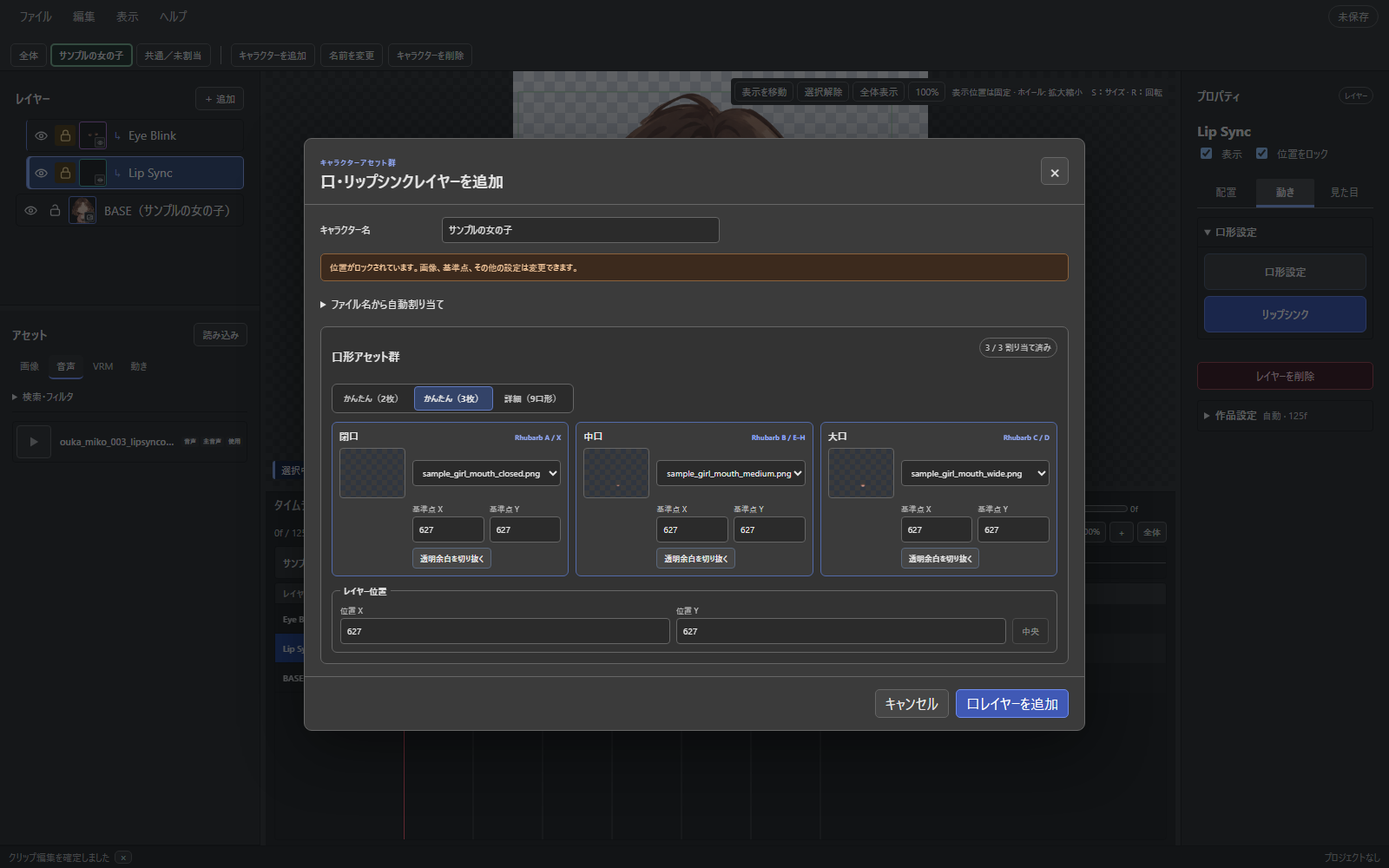
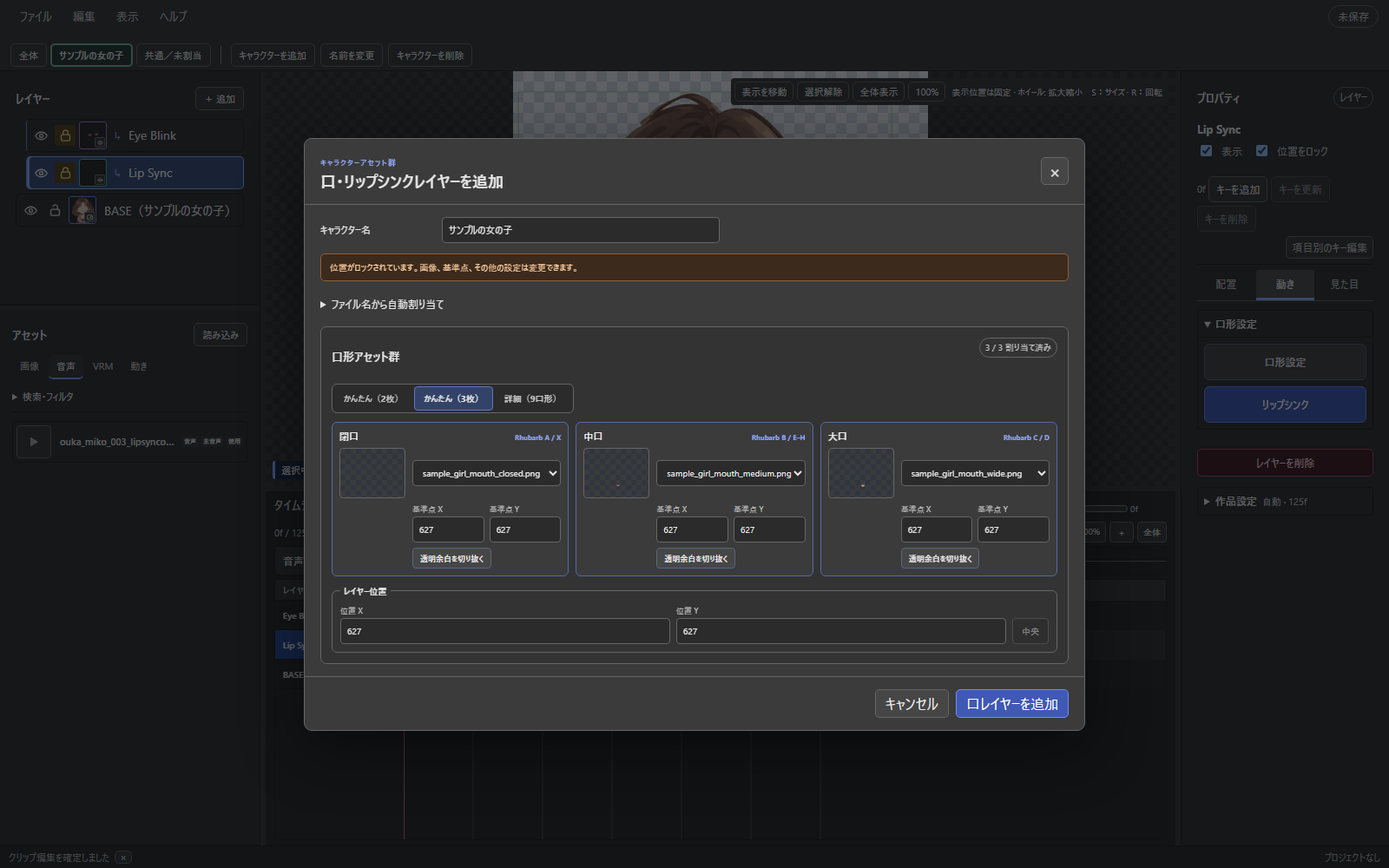
docs: publish LipSyncOne 0.4.0

diff --git a/site/help/index.html b/site/help/index.html
@@ -86,8 +86,8 @@
           <p class="breadcrumb">LipSyncOne / ヘルプ</p>
           <h1>LipSyncOne ヘルプ</h1>
           <p>画像やVRMモデルと音声から、口パク・目パチ・動きの付いた透明動画を作る操作を紹介します。</p>
-          <p class="version-note">Windows 11 x64 ／ 開発版0.4.0の使い方 ／ 2026年10月19日更新</p>
-          <nav class="start-paths" aria-label="作りたいものから始める"><a class="start-card" href="#sample-three"><span class="start-card-label">いちばん簡単</span><strong>全身画像2枚で口パク</strong><span>口だけが違う2枚と音声から作る</span></a><a class="start-card" href="#parts-start"><span class="start-card-label">口も目も動かす</span><strong>本体・口・目のパーツ画像</strong><span>差分画像を組み合わせて作る</span></a><a class="start-card" href="#vrm"><span class="start-card-label">開発版0.4.0</span><strong>VRMモデルで作る</strong><span>3Dモデルに口パクや動きを付ける</span></a></nav>
+          <p class="version-note">Windows 11 x64 ／ 0.4.0の使い方 ／ 2026年10月19日更新</p>
+          <nav class="start-paths" aria-label="作りたいものから始める"><a class="start-card" href="#sample-three"><span class="start-card-label">いちばん簡単</span><strong>全身画像2枚で口パク</strong><span>口だけが違う2枚と音声から作る</span></a><a class="start-card" href="#parts-start"><span class="start-card-label">口も目も動かす</span><strong>本体・口・目のパーツ画像</strong><span>差分画像を組み合わせて作る</span></a><a class="start-card" href="#vrm"><span class="start-card-label">VRM対応</span><strong>VRMモデルで作る</strong><span>3Dモデルに口パクや動きを付ける</span></a></nav>
         </div>
       </section>
 
@@ -128,7 +128,7 @@
             <header class="section-heading"><p class="section-number">START</p><h2>まずはサンプルで動画を作る</h2></header>
 
 <p>画像と音声を用意すれば、口パクを自動で付けられます。まずは、準備の少ない「全身画像2枚」で試してみましょう。</p>
-<p class="note"><strong>このページは開発版0.4.0の操作案内です。</strong>現在の公開版は0.3.9です。VRM・モーション・キー編集など、0.4.0で追加する機能は公開版には含まれません。画像の口パク・目パチは公開版でも制作できます。</p>
+<p class="note"><strong>LipSyncOne 0.4.0の操作案内です。</strong>画像の口パク・目パチに加え、VRM・モーション・キーフレームを使った制作を紹介します。</p>
 <div class="guide-step" id="sample-three"><h3>1. サンプル3をダウンロードする</h3><p><a class="secondary-button" href="https://lipsyncone.studiojuh.com/downloads/LipSyncOne_SampleAssets3_v1.zip" download>サンプル3：全身画像2枚をダウンロード</a></p><p>ZIPを展開します。imagesフォルダーに閉口・開口のPNG、audioフォルダーにWAVが入っています。自分の画像で試す場合も、同じ位置・大きさで口だけが違う2枚を用意してください。</p></div>
 <div class="guide-step"><h3>2. 新しいプロジェクトを作る</h3><p>HOMEの「新規プロジェクト」を選びます。</p><figure class="guide-shot"><a class="image-zoom-trigger" href="assets/home-light.png" aria-label="新規プロジェクトとプロジェクトを開くボタンがあるHOME画面を拡大表示"><img src="assets/home-light.png" data-theme-light="assets/home-light.png" data-theme-dark="assets/home-dark.png" alt="新規プロジェクトとプロジェクトを開くボタンがあるHOME画面" loading="lazy" width="1600" height="1000"></a><figcaption>「新規プロジェクト」で制作を始めます。保存済みの作品は「プロジェクトを開く」から再開できます。</figcaption></figure></div>
 <div class="guide-step"><h3>3. 2枚の画像でキャラクターを追加する</h3><p>「キャラクターを追加」を開き、「全身画像2枚で口パク」を選びます。「画像を追加」から2枚を読み込み、閉じた口と開いた口をそれぞれ指定して「2枚でキャラクターを追加」を押します。</p><figure class="guide-shot"><a class="image-zoom-trigger" href="assets/two-image-character-light.png" aria-label="閉口と開口の全身画像2枚を指定したキャラクター追加画面を拡大表示"><img src="assets/two-image-character-light.png" data-theme-light="assets/two-image-character-light.png" data-theme-dark="assets/two-image-character-dark.png" alt="閉口と開口の全身画像2枚を指定したキャラクター追加画面" loading="lazy" width="1600" height="1000"></a><figcaption>2枚の画像全体を見比べ、口以外の位置が揃っていることを確認します。切り抜きや口の位置合わせは不要です。</figcaption></figure></div>
@@ -203,7 +203,7 @@
           <section class="guide-section searchable" id="vrm" data-search="VRM VRMA モーション アニメーション 読み込み 繰り返す 3D モデル 取込 ポーズ コマ送り なめらか 表情 口パク リップシンク 目パチ 揺れ物 呼吸 髪 服 回転 カメラ リグ コントローラー 全身 腰 左右 FK IK G R S XYZ 平行投影 透視投影 テンキー5 光源 光の強さ 明るさ GLSL シェーダー">
             <header class="section-heading"><p class="section-number">3D</p><h2>VRMモデルを使う</h2></header>
 
-<p class="version-badge">開発版0.4.0の機能です。公開版0.3.9には含まれません。</p>
+<p class="version-badge">0.4.0から利用できます。</p>
 <p>VRMモデルにも、音声に合わせた口パクと自動の目パチを付けられます。画像のキャラクターや背景と、同じ作品に置くこともできます。</p>
 <ol class="procedure compact-procedure"><li><strong>モデルを追加する</strong><span>「キャラクターを追加」で「VRMモデル」を選びます。「VRMを追加」で.vrmファイルを読み込み、「モデルを選択」で選んで「キャラクターを追加」を押します。追加後にプレビューへ表示します。VRM 0.x / 1.0に対応します。</span></li><li><strong>音声を配置する</strong><span>そのキャラクターの音声行へ音声を置きます。口パクの解析が始まります。</span></li><li><strong>動きを確認する</strong><span>再生ボタンで確認します。口パク・目パチ・呼吸などは「動き」タブから調整できます。</span></li></ol>
 <h3>ポーズを変える</h3><p>モデルを選び、「動き → 3Dの配置・基本ポーズ」でポーズプリセットを選んで「ポーズを適用」を押します。プレビューの「向き・ポーズ（3D）」では、関節の輪を選んで直接調整できます。</p>
@@ -266,9 +266,10 @@ void main() {
             <header class="section-heading"><p class="section-number">07</p><h2>配置と表示する時間を調整する</h2></header>
 
 <h3>素材を使う時間を変える</h3><p>タイムラインの帯をドラッグすると開始位置、左右の端をドラッグすると長さを変えられます。同じ行の同じ時間へは、2つ以上の素材を置けません。別の行や空いている時間へ配置してください。</p>
+<p>音声は1行のまとめ表示から始まります。配置や削除をするときは「個別」を押して音声行を開き、「まとめる」で戻せます。まとめ表示でも波形をドラッグして再生位置を動かせます。表示の切り替えで音声の配置や再生内容は変わりません。</p>
 <figure class="guide-shot"><a class="image-zoom-trigger" href="assets/timeline-light.png" aria-label="音声・画像・口形の表示区間を確認するタイムラインを拡大表示"><img src="assets/timeline-light.png" data-theme-light="assets/timeline-light.png" data-theme-dark="assets/timeline-dark.png" alt="音声・画像・口形の表示区間を確認するタイムライン" loading="lazy" width="1048" height="408"></a><figcaption>音声の行と素材の行は別です。口パクの帯は解析結果、画像やモーションの帯は配置した素材を表します。</figcaption></figure>
 <h3>位置・大きさ・回転を変える</h3><p>画像やレイヤーを選び、「配置 → 画面上の配置」を開きます。数値を変えると、少し待ってプレビューへ反映します。Enterですぐ確定、Escで未確定の入力を戻せます。</p>
-<figure class="guide-shot"><a class="image-zoom-trigger" href="assets/properties-position-light.png" aria-label="配置タブで位置・入力倍率・回転を調整するプロパティを拡大表示"><img src="assets/properties-position-light.png" data-theme-light="assets/properties-position-light.png" data-theme-dark="assets/properties-position-dark.png" alt="配置タブで位置・入力倍率・回転を調整するプロパティ" loading="lazy" width="360" height="534"></a><figcaption>位置は1px、入力倍率は1％、回転は1度刻みです。数値欄を選んでいる間だけ、ホイールで1ずつ変更できます。</figcaption></figure>
+<figure class="guide-shot"><a class="image-zoom-trigger" href="assets/properties-position-light.png" aria-label="配置タブで位置・入力倍率・回転を調整するプロパティを拡大表示"><img src="assets/properties-position-light.png" data-theme-light="assets/properties-position-light.png" data-theme-dark="assets/properties-position-dark.png" alt="配置タブで位置・入力倍率・回転を調整するプロパティ" loading="lazy" width="360" height="586"></a><figcaption>位置は1px、入力倍率は1％、回転は1度刻みです。数値欄を選んでいる間だけ、ホイールで1ずつ変更できます。</figcaption></figure>
 <table class="help-table"><thead><tr><th>したいこと</th><th>操作</th></tr></thead><tbody><tr><th>画像を移動する</th><td>プレビューの画像を選んでドラッグします。</td></tr><tr><th>画像を拡大・縮小する</th><td>画像を選び、プレビュー上でSを押してマウスを動かします。</td></tr><tr><th>画像を回転する</th><td>画像を選び、プレビュー上でRを押してマウスを動かします。</td></tr><tr><th>変形を確定・取り消す</th><td>クリックかEnterで確定。右クリックかEscで取り消します。</td></tr><tr><th>左右反転する</th><td>プロパティの「左右反転」を押します。</td></tr><tr><th>表示・非表示を切り替える</th><td>レイヤーの目アイコンを押します。</td></tr><tr><th>重なり順を変える</th><td>レイヤー一覧の行を上下へドラッグします。</td></tr></tbody></table>
 <p>BASEはキャラクター本体です。口と目はBASEの位置に追従します。口・目の位置を動かすときは、鍵アイコンで位置ロックを解除してください。背景は通常のレイヤーに置き、キャラクターより下へ移動します。</p>
 <h3>タイムラインの長さを変える</h3><p>初期設定は「自動」です。最後の画像・音声・モーションなどの終わりに合わせて、タイムラインが伸び縮みします。末尾に余白を作りたいときは、プロパティ下部の「作品設定 → タイムラインの長さ」で「手動」を選びます。24 FPSなら240フレームで10秒です。</p><p>配置済みの素材より短い長さは指定できません。「自動」に戻すと、素材の終端へ揃います。</p>
@@ -280,19 +281,19 @@ void main() {
           <section class="guide-section searchable" id="keyframes" data-search="キーフレーム キー ◆ ◇ I Alt 自動キー 未記録 プレビュー 保存 ポーズ 基準 現在のコマ 動かす">
             <header class="section-heading"><p class="section-number">KEY</p><h2>キーフレームと自動キー</h2></header>
 
-<p class="version-badge">開発版0.4.0の機能です。公開版0.3.9には含まれません。</p><p>キーフレームは、「このコマでは、この位置やポーズにする」という記録です。0コマ目と24コマ目に違う位置を記録すると、その間をつないで動かせます。</p>
-<ol class="procedure compact-procedure"><li><strong>コマを選ぶ</strong><span>動かすレイヤーを選び、タイムラインを「キー」に切り替えます。記録したいコマへ再生位置を動かします。</span></li><li><strong>値を変える</strong><span>プロパティかプレビューで、位置・大きさ・回転などを調整します。</span></li><li><strong>◇で記録する</strong><span>値の横の◇を押すと、現在のコマに記録します。記録済みのコマでは◆になります。</span></li></ol>
-<figure class="guide-shot"><a class="image-zoom-trigger" href="assets/keyframes-light.png" aria-label="キー表示のタイムラインと値の横の記録ボタンを拡大表示"><img src="assets/keyframes-light.png" data-theme-light="assets/keyframes-light.png" data-theme-dark="assets/keyframes-dark.png" alt="キー表示のタイムラインと値の横の記録ボタン" loading="lazy" width="1600" height="1000"></a><figcaption>別のコマでも値を変えて記録し、再生して動きを確認します。最初のキーを途中に作るときは、0コマ目の基準値も記録します。</figcaption></figure>
-<h3>自動キーで、調整と同時に記録する</h3><p>タイムラインの「自動キー」をオンにすると、変更した項目だけを現在のコマへ記録します。初期状態はオフです。同じコマにあるキーを変更すると、そのキーを更新します。</p>
+<p class="version-badge">0.4.0から利用できます。</p><p>キーフレームは、「このコマでは、この位置やポーズにする」という記録です。0コマ目と24コマ目に違う位置を記録すると、その間をつないで動かせます。</p>
+<ol class="procedure compact-procedure"><li><strong>コマを選ぶ</strong><span>動かすレイヤーを選び、タイムラインを「キー」に切り替えます。記録したいコマへ再生位置を動かします。</span></li><li><strong>値を変える</strong><span>プロパティかプレビューで、位置・大きさ・回転・不透明度を調整します。</span></li><li><strong>キーを追加する</strong><span>「キーを追加」を押すと、そのコマの配置をまとめて記録します。記録済みのコマは「キーを更新」で上書き、「キーを削除」でまとめて削除できます。</span></li></ol>
+<figure class="guide-shot"><a class="image-zoom-trigger" href="assets/keyframes-light.png" aria-label="配置を一括で記録するボタンとキーのタイムラインを拡大表示"><img src="assets/keyframes-light.png" data-theme-light="assets/keyframes-light.png" data-theme-dark="assets/keyframes-dark.png" alt="配置を一括で記録するボタンとキーのタイムライン" loading="lazy" width="1600" height="1000"></a><figcaption>位置・回転・大きさ・不透明度を1つの◆にまとめて編集します。別のコマでも値を変えて記録し、再生して動きを確認します。最初のキーを途中に作るときは、0コマ目の基準値も記録します。</figcaption></figure>
+<h3>自動キーで、調整と同時に記録する</h3><p>タイムラインの「自動キー」をオンにすると、配置の変更を現在のコマへまとめて記録します。初期状態はオフです。同じコマにあるキーを変更すると、そのキーを更新します。VRMの関節・表情などは変更した項目を記録します。</p>
 <h3>未記録プレビューのままにしない</h3><p>キーがある項目を、自動キーがオフのまま変更すると、まず未記録の状態で見た目を試せます。「未記録」が出たら、Iキーや記録ボタンでキーにしてください。別のコマへ移動するか、Escで取り消すと変更は消えます。</p><p class="warning"><strong>未記録の変更は保存・動画出力に含まれません。</strong>試した位置やポーズを残すときは、先にキーへ記録してください。</p>
-<details class="inline-details"><summary>記録できる項目とショートカット</summary><p>画像の位置・倍率・回転・不透明度、VRMの配置・基本ポーズ・表情・カメラなどを記録できます。位置は「配置」、ポーズは「動き」、表情や不透明度は「見た目」で調整します。</p><p>Iで記録、Alt＋Iで現在のキーを削除できます。数値の編集中はEnterでも記録できます。削除や記録は、元に戻す・やり直すに対応します。</p></details>
+<details class="inline-details"><summary>項目ごとに細かく編集する・ショートカット</summary><p>プロパティの「項目別のキー編集」を開くと、位置・倍率・回転・不透明度の個別キーや、VRMの基本ポーズ・表情・カメラなどを編集できます。位置は「配置」、ポーズは「動き」、表情や不透明度は「見た目」で調整します。</p><p>キーのタイムラインではIで配置をまとめて記録、Alt＋Iで現在の配置キーを削除できます。「キー」表示中の数値入力はEnterでも記録できます。詳細編集では項目ごとの操作になります。削除や記録は、元に戻す・やり直すに対応します。</p></details>
           </section>
 
           <section class="guide-section searchable" id="curves" data-search="ベジェ Bezier グラフ カーブ ハンドル 補間 キー 時間 伸縮 時間伸縮 S スケール 支点 衝突 なめらか">
             <header class="section-heading"><p class="section-number">CURVE</p><h2>動きの速さとキーの間隔を整える</h2></header>
 
-<p class="version-badge">開発版0.4.0の機能です。公開版0.3.9には含まれません。</p>
-<h3>動き出しや止まり方を変える</h3><p>キー編集で「グラフ」を開きます。補間を「ベジェ」にすると、ハンドルを動かして、ゆっくり動き出す・ゆっくり止まるといった変化を作れます。</p>
+<p class="version-badge">0.4.0から利用できます。</p>
+<h3>動き出しや止まり方を変える</h3><p>キーのタイムラインで「キーの詳細」を開き、項目を選んで「グラフ」を押します。補間を「ベジェ」にすると、ハンドルを動かして、ゆっくり動き出す・ゆっくり止まるといった変化を作れます。</p>
 <figure class="guide-shot"><a class="image-zoom-trigger" href="assets/graph-light.png" aria-label="キーフレームの値とベジェのハンドルを編集するグラフ画面を拡大表示"><img src="assets/graph-light.png" data-theme-light="assets/graph-light.png" data-theme-dark="assets/graph-dark.png" alt="キーフレームの値とベジェのハンドルを編集するグラフ画面" loading="lazy" width="1600" height="1000"></a><figcaption>横軸は時間、縦軸は値です。キーとハンドルをドラッグするか、数値で調整します。</figcaption></figure>
 <table class="help-table"><thead><tr><th>補間</th><th>動き方</th></tr></thead><tbody><tr><th>一定</th><td>次のキーまで同じ値を保ち、切り替えます。</td></tr><tr><th>直線</th><td>一定の速さで変わります。</td></tr><tr><th>ベジェ</th><td>ハンドルで動き出しや止まり方を調整します。</td></tr></tbody></table>
 <h3>動きを全体的に長く・短くする</h3><p>キーを複数選んでSを押すと、キーの間隔を伸縮できます。支点は再生位置・選択の先頭・末尾から選びます。Enterで確定、Escで取り消します。時刻は整数フレームへ揃います。</p>
@@ -310,7 +311,7 @@ void main() {
    ├─ 本体.png
    ├─ 口_閉じ.png
    └─ 音声.wav</pre><p>この構成なら「素材/本体.png」のように記録します。中の配置を変えずに「作品フォルダー」全体を移動すれば、移動後も素材を参照できます。</p><p>.ls1だけを別のサブフォルダーへ入れ、素材をその外に置くと絶対パスになります。相対パスでまとめたい場合は、素材をすべて.ls1と同じフォルダーか、その下へ入れてください。</p><p>読み込み済みの素材を後から移動した場合は、アセットのプロパティで移動先へ差し替え、保存し直します。「名前を付けて保存」では、同じ素材を参照するようにパスを調整します。</p></details>
-<details class="inline-details"><summary>旧版のプロジェクトと復旧について</summary><p>開発版0.4.0は、VRMとキーを含むv3形式で保存します。0.3系のv2ファイルは開くときに移行しますが、保存するまでは元ファイルを変えません。v3で保存すると旧版では開けないため、元の作品を残す場合は「名前を付けて保存」で別名にしてください。v1など、それ以前の形式は対象外です。</p><p>作業中は復旧用データを自動保存します。正常に終了できなかったときは、次回起動時に復旧を案内します。通常の保存やバックアップも併せて行ってください。</p></details>
+<details class="inline-details"><summary>旧版のプロジェクトと復旧について</summary><p>0.4.0は、VRMとキーを含むv3形式で保存します。0.3系のv2ファイルは開くときに移行しますが、保存するまでは元ファイルを変えません。v3で保存すると旧版では開けないため、元の作品を残す場合は「名前を付けて保存」で別名にしてください。v1など、それ以前の形式は対象外です。</p><p>作業中は復旧用データを自動保存します。正常に終了できなかったときは、次回起動時に復旧を案内します。通常の保存やバックアップも併せて行ってください。</p></details>
           </section>
 
           <section class="guide-section searchable" id="export" data-search="動画 書き出し 出力 透明 アルファ Premiere Pro DaVinci Resolve ProRes FFV1 軽量 WebM MP4 背景 解像度">
@@ -340,14 +341,14 @@ void main() {
             <header class="section-heading"><p class="section-number">10</p><h2>アプリを更新する</h2></header>
 
 <p>「ヘルプ → アップデートを確認…」から手動で確認します。起動時の自動確認は行いません。</p><ol class="procedure compact-procedure"><li><strong>プロジェクトを保存する</strong><span>編集中の内容を保存します。</span></li><li><strong>更新を確認する</strong><span>新しい版がある場合は、案内を読んで「更新して再起動」を選びます。</span></li><li><strong>再起動を待つ</strong><span>更新ファイルの取得と適用が終わると、アプリを再起動します。取得中は取り消せます。</span></li></ol>
-<p>現在の公開版は0.3.9です。このヘルプの0.4.0の画面・追加機能は開発中のものです。更新内容と公開状況は<a href="https://github.com/studio-juh/lip-sync-one-releases/releases">リリース一覧</a>で確認できます。</p>
+<p>このヘルプは0.4.0に対応しています。更新内容と公開状況は<a href="https://github.com/studio-juh/lip-sync-one-releases/releases">リリース一覧</a>で確認できます。</p>
 <details class="inline-details"><summary>BOOTHの購入者証明について</summary><p>購入者証明ファイル（.lso-license）は「ヘルプ → 購入状態」から読み込みます。</p></details>
           </section>
 
           <section class="guide-section searchable" id="shortcuts" data-search="ショートカット キーボード 保存 undo redo 再生 拡大 縮小 回転">
             <header class="section-heading"><p class="section-number">11</p><h2>よく使うショートカット</h2></header>
 
-<table class="help-table shortcut-table"><tbody><tr><th>Ctrl＋S</th><td>保存</td><th>Ctrl＋E</th><td>動画の書き出し</td></tr><tr><th>Ctrl＋Z</th><td>元に戻す</td><th>Ctrl＋Shift＋Z</th><td>やり直す</td></tr><tr><th>Space</th><td>再生・一時停止</td><th>S / R</th><td>選択素材の拡大縮小 / 回転</td></tr><tr><th>G</th><td>VRMの選択部位を移動</td><th>テンキー5</th><td>VRMの平行投影 / 透視投影を切替</td></tr><tr><th>Enter / Esc</th><td>変形を確定 / 取り消す</td><th>I / Alt＋I</th><td>キーを記録 / 削除</td></tr><tr><th>Ctrl＋C / V</th><td>クリップをコピー / 貼り付け</td><th>Ctrl＋K</th><td>このヘルプ内を検索</td></tr></tbody></table><p>変形操作は、対象を選んでプレビュー上へマウスを置いて使います。数値や文字の入力中は、素材の変形を始めません。VRMやキーの操作は開発版0.4.0の機能です。</p>
+<table class="help-table shortcut-table"><tbody><tr><th>Ctrl＋S</th><td>保存</td><th>Ctrl＋E</th><td>動画の書き出し</td></tr><tr><th>Ctrl＋Z</th><td>元に戻す</td><th>Ctrl＋Shift＋Z</th><td>やり直す</td></tr><tr><th>Space</th><td>再生・一時停止</td><th>S / R</th><td>選択素材の拡大縮小 / 回転</td></tr><tr><th>G</th><td>VRMの選択部位を移動</td><th>テンキー5</th><td>VRMの平行投影 / 透視投影を切替</td></tr><tr><th>Enter / Esc</th><td>変形を確定 / 取り消す</td><th>I / Alt＋I</th><td>キーを記録 / 削除</td></tr><tr><th>Ctrl＋C / V</th><td>クリップをコピー / 貼り付け</td><th>Ctrl＋K</th><td>このヘルプ内を検索</td></tr></tbody></table><p>変形操作は、対象を選んでプレビュー上へマウスを置いて使います。数値や文字の入力中は、素材の変形を始めません。VRMやキーの操作は0.4.0から利用できます。</p>
           </section>
 
           <section class="guide-section searchable" id="troubleshooting" data-search="トラブル エラー 起動 解析 失敗 音声 表示されない 書き出し 再生 波形 SmartScreen Rhubarb Master audio preparation failed">

diff --git a/site/index.html b/site/index.html
@@ -39,11 +39,11 @@
             "description": "LipSyncOne（リップシンク One）は、立ち絵の差分画像と音声から口パク・目パチアニメーションを自動生成する、Windows 11向けのリップシンクジェネレーターです。VOICEVOXやゆっくり実況、解説動画に使う2Dアニメーション素材を、背景透過の動画で書き出せます。",
             "applicationCategory": "MultimediaApplication",
             "operatingSystem": "Windows 11 x64",
-            "softwareVersion": "0.3.9",
+            "softwareVersion": "0.4.0",
             "inLanguage": "ja-JP",
             "isAccessibleForFree": true,
             "downloadUrl": "https://github.com/studio-juh/lip-sync-one-releases/releases/latest",
-            "releaseNotes": "https://github.com/studio-juh/lip-sync-one-releases/releases/tag/v0.3.9",
+            "releaseNotes": "https://github.com/studio-juh/lip-sync-one-releases/releases/tag/v0.4.0",
             "image": "https://lipsyncone.studiojuh.com/assets/editor-dark.png",
             "screenshot": "https://lipsyncone.studiojuh.com/assets/editor-dark.png",
             "featureList": [
@@ -136,7 +136,7 @@
               <div class="hero-actions">
                 <a class="download-button" href="https://github.com/studio-juh/lip-sync-one-releases/releases/latest">無料でダウンロード</a><a class="secondary-button" href="#workflow">画面を見ながら始める</a>
               </div>
-              <p class="hero-meta">Windows 11 x64 · 公開版 v0.3.9 · 音声はPC内で解析</p>
+              <p class="hero-meta">Windows 11 x64 · 公開版 v0.4.0 · 音声はPC内で解析</p>
               <p class="screen-version-note">画面例は0.4.0の操作画面です。画像とVRMの制作をひとつのアプリで進められます。</p>
             </div>
           </div>
@@ -442,7 +442,7 @@
         <div class="page-width">
           <div class="download-top">
             <div>
-              <p class="product-eyebrow">Windows 11 x64 · v0.3.9</p>
+              <p class="product-eyebrow">Windows 11 x64 · v0.4.0</p>
               <h2 id="download-title">最初の口パクを、<br>作ってみませんか。</h2>
               <p>セットアップEXEを実行してインストール。<br>スタートメニューからLipSyncOneを起動できます。</p>
             </div>
@@ -451,10 +451,9 @@
             </div>
           </div>
           <details class="release-details">
-            <summary>v0.3.9の変更点・更新方法</summary>
+            <summary>v0.4.0の変更点・更新方法</summary>
             <div>
-              <p>v0.3.9を公開しました。目パチが音声の有無や長さに関係なく動くようになりました。初期状態ではタイムライン全体に合わせ、必要に応じて目パチの両端をドラッグするか、プロパティで開始位置と表示時間を調整できます。複数キャラクターもそれぞれ設定でき、保存・取り消しに対応します。</p>
-              <p>0.3.8からは「ヘルプ → アップデートを確認」で更新できます。起動時の自動確認は行いません。</p>
+              <p>v0.4.0を公開しました。VRMモデルとVRMAモーション、キーフレーム編集に対応しました。画像と3Dキャラクターを同じ作品で組み合わせ、口パク・目パチ・ポーズや動きを付けた透明動画を書き出せます。タイムラインとプロパティも整理し、複数キャラクターの制作を進めやすくしました。</p><p>0.3.9からは「ヘルプ → アップデートを確認」で更新できます。起動時の自動確認は行いません。</p>
               <p>旧ポータブル版をお使いの場合は、セットアップEXEでインストールしてください。保存済みのプロジェクトと素材は引き続き使えます。</p>
             </div>
           </details>
